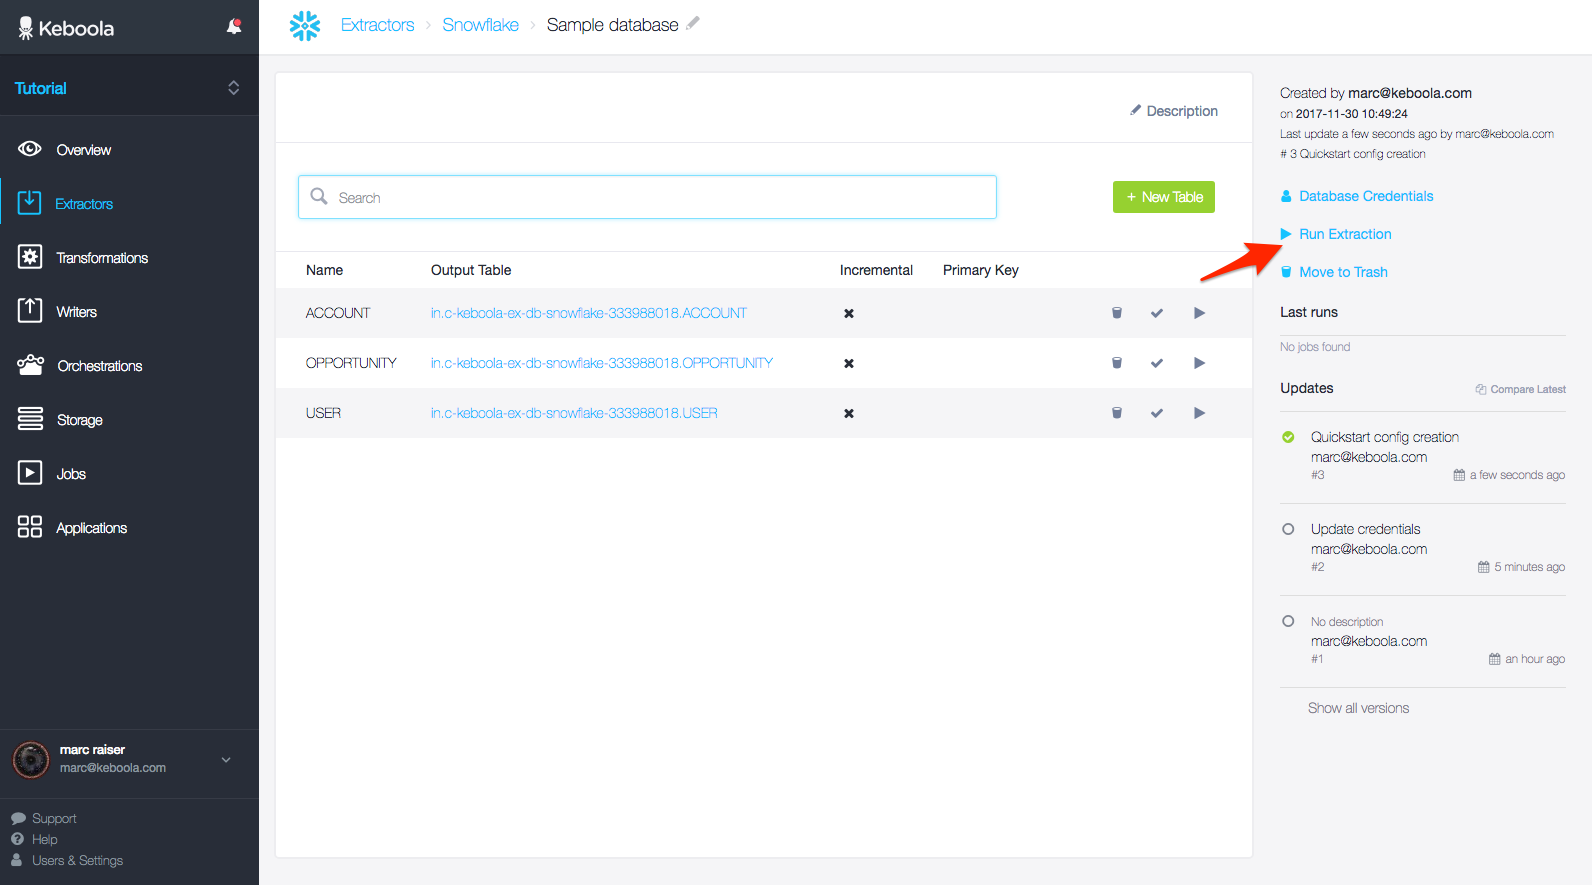
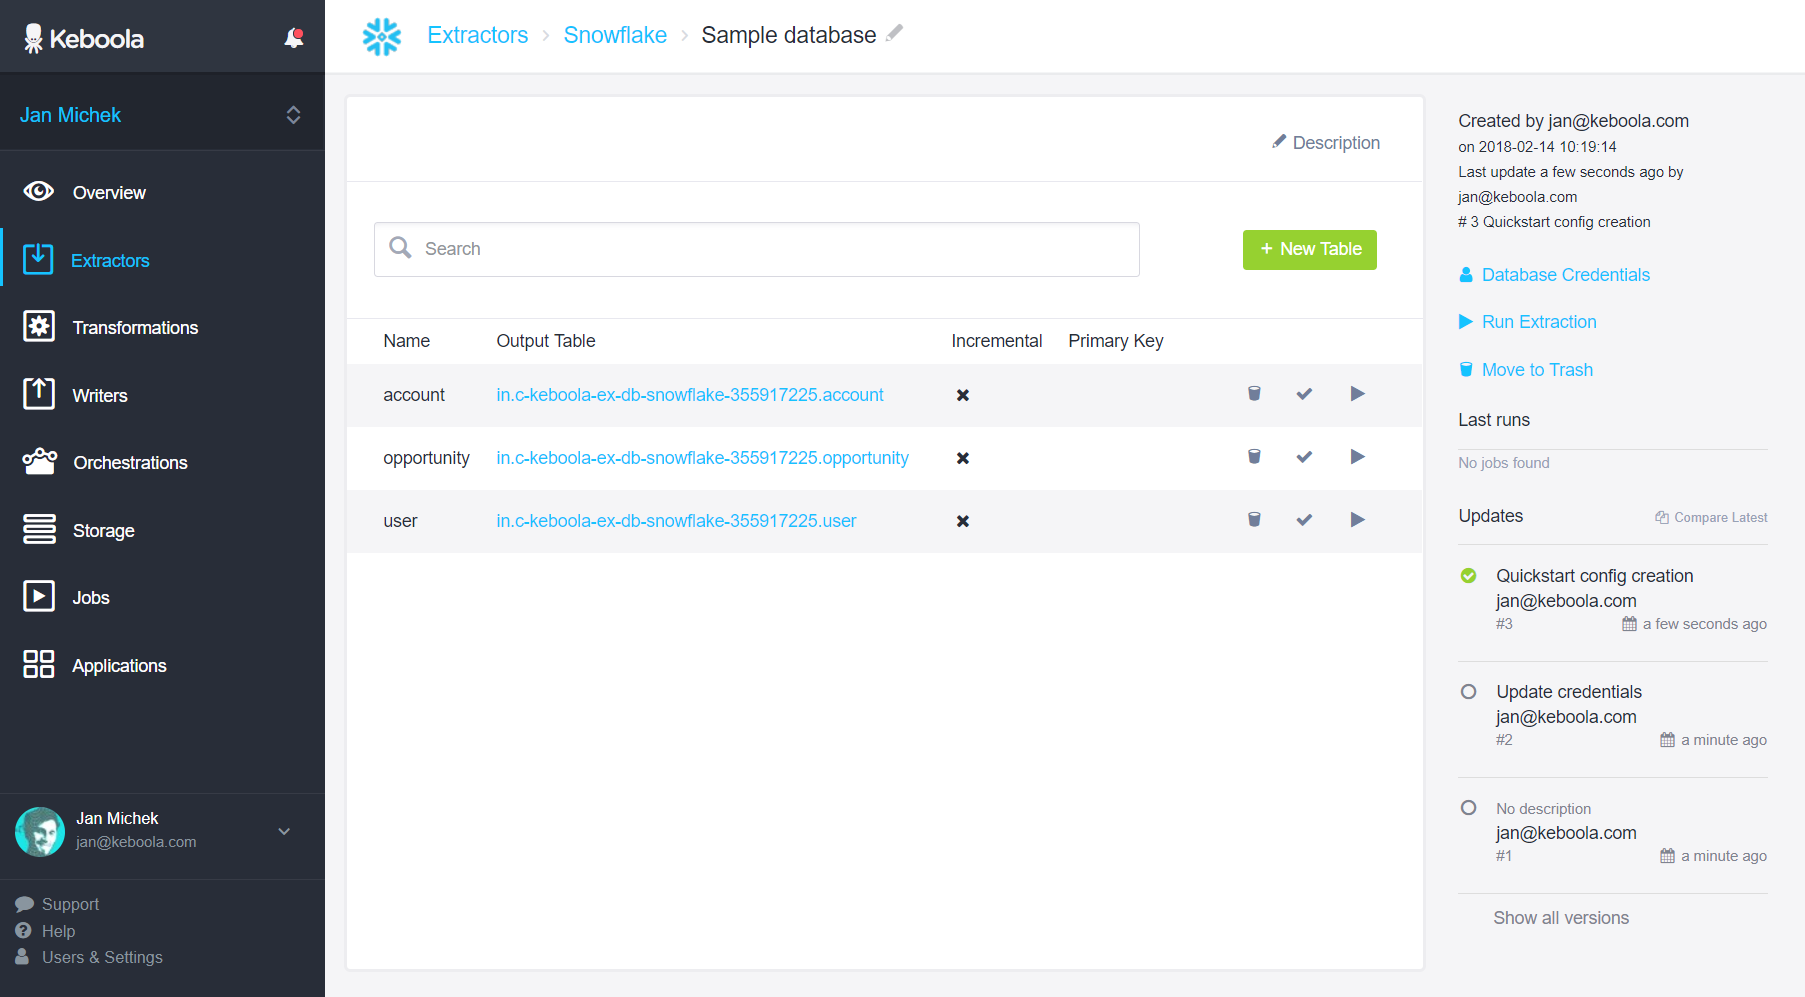
changes content of load tutorial

diff --git a/tutorial/load/database.md b/tutorial/load/database.md
@@ -50,7 +50,7 @@ Now select the tables to import from the dropdown. Each selected table correspon
 {: .image-popup}
 ![Screenshot - Quickstart](/tutorial/load/extractor-db-tableSelector.png)
 
-Select the `ACCOUNTS`, `USER`, and `OPPORTUNITY` tables and press "Create".
+Select the `accounts`, `user`, and `opportunity` tables and press "Create".
 
 {: .image-popup}
 ![Screenshot - Database Tables Selected](/tutorial/load/extractor-db-tablesSelected.png)
